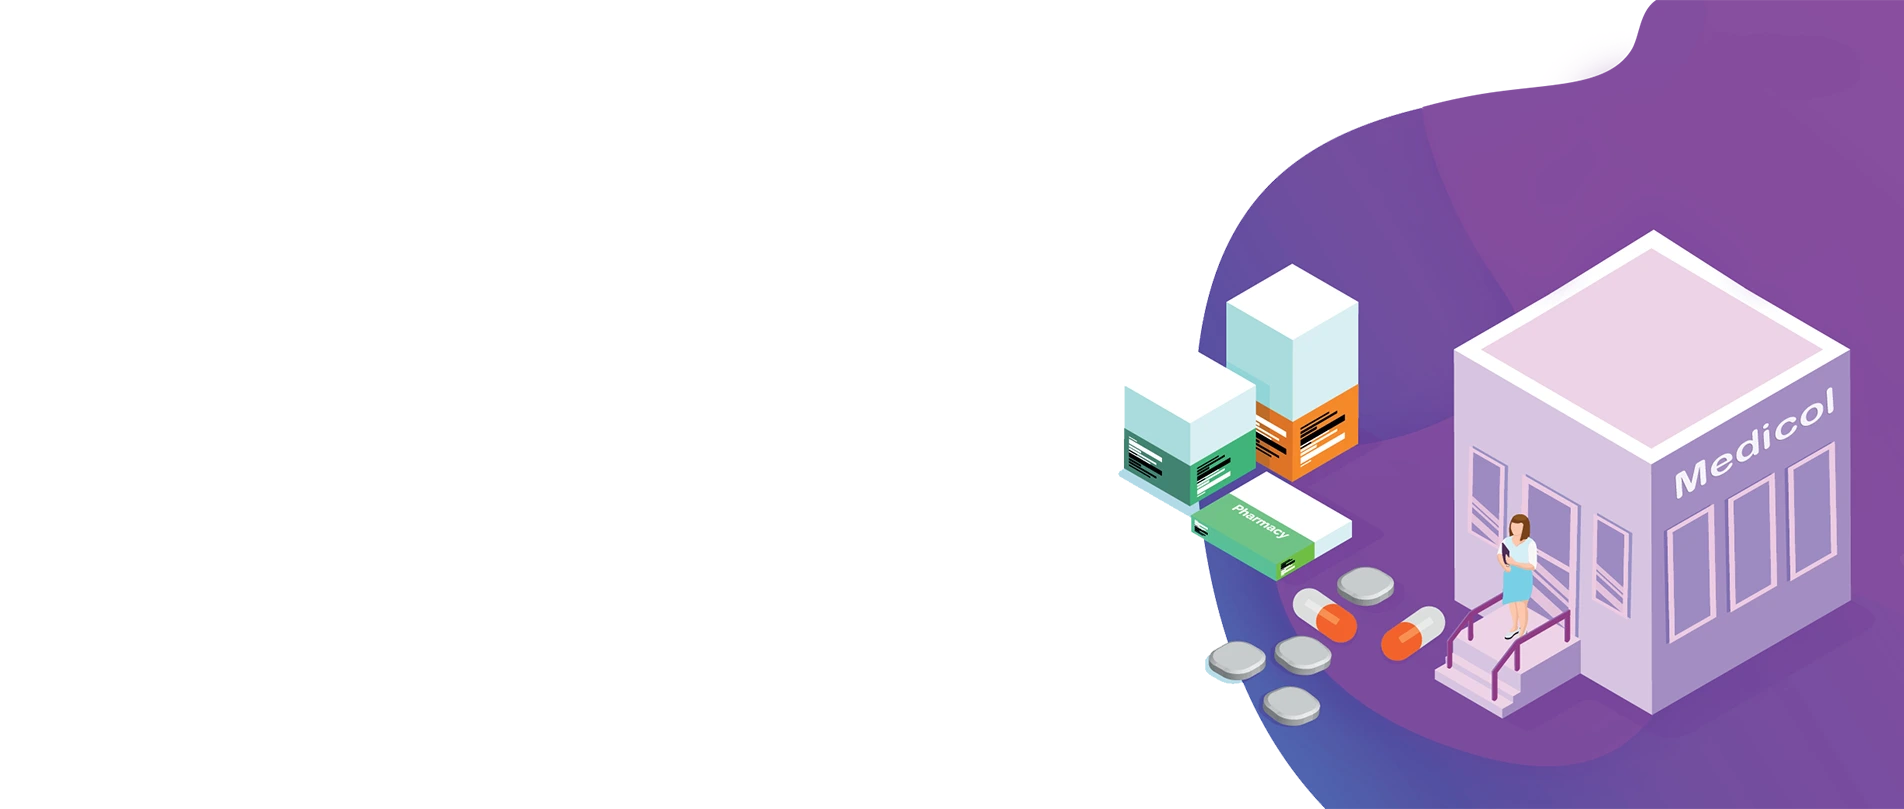
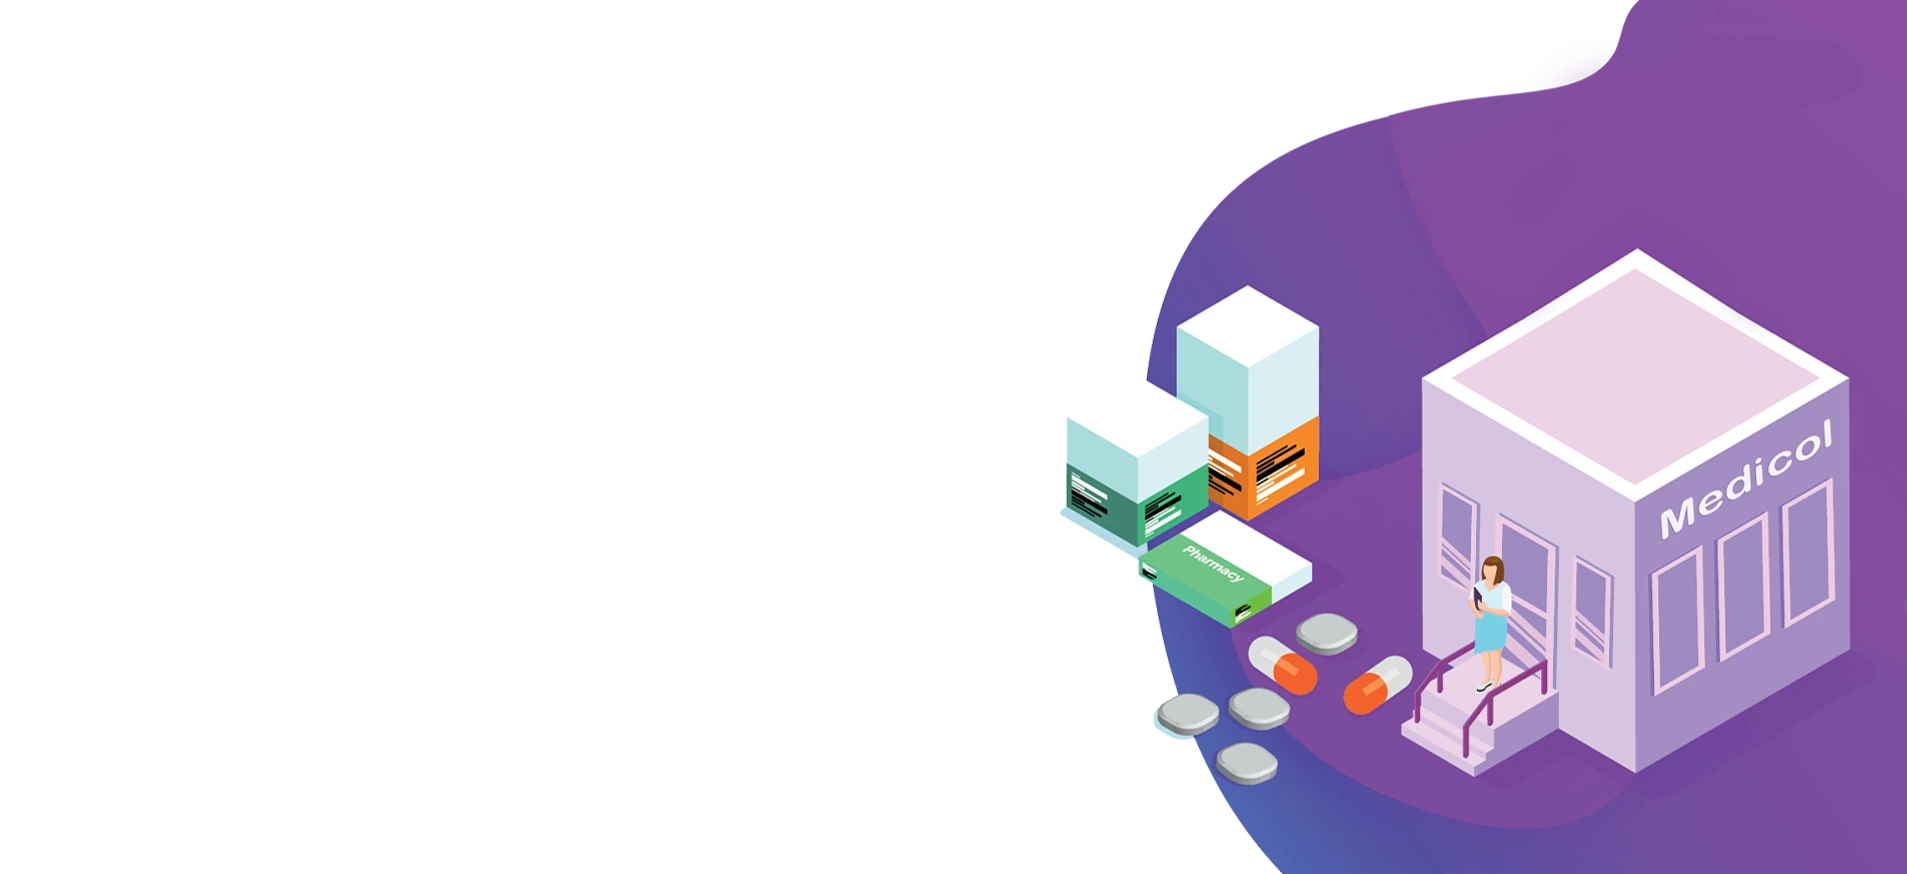
last

diff --git a/src/app/componenets/navbar/navbar.component.html b/src/app/componenets/navbar/navbar.component.html
@@ -1,11 +1,11 @@
 
-<nav class="w-full z-50 fixed top-0 left-0 ">
+<nav #blurNav class="w-full z-50 fixed top-0 left-0  ">
     <div class="flex flex-wrap justify-between items-center mx-auto max-w-screen-xl p-4">
         <a href="http://localhost:4200/" class="flex items-center gap-2">
             <div class="12 flex justify-center items-center gap-1">
                 <div>
-                  <img src="assets/images/logo.webp" alt="Medicol logo"
-                    class="w-8 h-8" />
+                  <img src="assets/images/logo.webp"  alt="Medicol logo"
+                    class="w-8 h-8 dark:brightness-125" />
                 </div>
                 <div>
                   <span class="text-xl dark:text-gray-300 dark:hover:text-gray-200"><span class="font-extrabold">Medi</span>col</span>
@@ -24,14 +24,14 @@
                   
                     <a [routerLink]="['/home']" class=" flex gap-1" aria-current="page">
                         <img [ngClass]="correctRoute==='/home'?'block':'hidden'" src="assets/images/home.webp" class="w-5 h-5 drop-shadow  animate-fade-left animate-duration-500 animate-ease-in-out" alt="medicol home icon" >
-                        <span>Home</span>
+                        <span class="text-gray-700 dark:text-gray-300">Home</span>
                     </a>
                     <div class="w-full h-[3px] -mt-[1px] flex items-center justify-center"><div class="w-full hidden h-full bg-gradient-to-r from-purple-600 to-purple-950 rounded-[5px]"></div></div>
                 </li>
                 <li>
-            <button appToggling [options]="options" [optionsIcon]="icon" [optionsIconDown]="iconDown" [optionsIconUp]="iconUp" class="flex hover:text-purple-800 items-center justify-between w-full py-2 pl-3 pr-4 md:w-auto md:p-0">
+            <button appToggling [border]="borderDiv" [blurDiv]="blurNav" [options]="options" [optionsIcon]="icon" [optionsIconDown]="iconDown" [optionsIconUp]="iconUp" class="flex dark:text-purple-600 text-purple-800 items-center justify-between w-full py-2 pl-3 pr-4 md:w-auto md:p-0">
                 <img #icon src="assets/images/options.webp" class="w-5 h-5 drop-shadow hidden mr-1 animate-fade-left animate-duration-500 animate-ease-in-out" alt="medicol options icon" >   
-                      <span class="text-gray-700">Options</span>  
+                      <span class="text-gray-700 dark:text-gray-300">Options</span>  
                       <span #iconDown class="animate-flip-down animate-duration-500 animate-ease-in-out">
                         <svg  class="w-2.5 h-2.5 ml-2.5 " aria-hidden="true" xmlns="http://www.w3.org/2000/svg" fill="none" viewBox="0 0 10 6">
                             <path stroke="currentColor" stroke-linecap="round" stroke-linejoin="round" stroke-width="2" d="m1 1 4 4 4-4"/>
@@ -42,18 +42,16 @@
                              <path stroke="currentColor" stroke-linecap="round" stroke-linejoin="round" stroke-width="2" d="m1 1 4 4 4-4"/>
                              </svg>
                       </span>
-  
-         
             </button>
                 </li>
                 <li>
-                    <a  class=" ">Marketplace</a>
+                    <a  class="text-gray-700 dark:text-gray-300">Marketplace</a>
                 </li>
                 <li>
-                    <a  class=" ">Resources</a>
+                    <a  class="text-gray-700 dark:text-gray-300">Resources</a>
                 </li>
                 <li>
-                    <a  class=" ">Contact</a>
+                    <a  class="text-gray-700 dark:text-gray-300">Contact</a>
                 </li>
                 <li>
                     <app-dark-mode-toggle/>
@@ -61,9 +59,9 @@
             </ul>
         </div>
     </div>
-    <div [ngClass]="correctRoute==='/home'? !home.list? 'border-y dark:border-gray-950  ml-2 w-[84.2%]':'border-y dark:border-gray-950  ml-2 w-[99.2%]':''" ></div>
-    <div class="mx-2 border-gray-200  bg-gray-900  ">
-        <div #options class=" hidden border-gray-200 shadow-sm bg-gray-50 md:bg-white border-y dark:bg-gray-800 dark:border-gray-600">
+    <div #borderDiv  class="block" [ngClass]="correctRoute==='/home'? !home.list? 'border-y dark:border-gray-950  ml-2 w-[83.4%]':'border-y dark:border-gray-950  ml-2 w-[99.2%]':''" ></div>
+    <div [ngClass]="correctRoute==='/home'?'mx-2 border-gray-200':''" class="  ">
+        <div #options class="hidden  border-gray-200 shadow-sm ">
             <div class="grid max-w-screen-xl px-4 py-5 mx-auto text-gray-900 dark:text-white sm:grid-cols-2 md:px-6">
                 <ul>
                     <li>

diff --git a/src/app/directives/toggling.directive.ts b/src/app/directives/toggling.directive.ts
@@ -9,6 +9,8 @@ export class TogglingDirective {
   @Input() optionsIcon: ElementRef | HTMLElement | undefined;
   @Input() optionsIconUp: ElementRef | HTMLElement | undefined;
   @Input() optionsIconDown: ElementRef | HTMLElement | undefined;
+  @Input() blurDiv: ElementRef | HTMLElement | undefined;
+  @Input() border: ElementRef | HTMLElement | undefined;
 
 
   constructor(private renderer: Renderer2) {}
@@ -18,28 +20,39 @@ export class TogglingDirective {
   }
 
   private toggleClass() {
-    this.toggleHandling(this.options);
-    this.toggleHandling(this.optionsIcon);
-    this.toggleHandling(this.optionsIconUp);
-    this.toggleHandling(this.optionsIconDown);
+    this.toggleHandling(this.options,'visibility');
+    this.toggleHandling(this.optionsIcon,'visibility');
+    this.toggleHandling(this.optionsIconUp,'visibility');
+    this.toggleHandling(this.optionsIconDown,'visibility');
+    this.toggleHandling(this.border,'visibility');
+    this.toggleHandling(this.blurDiv,'blur');
   }
 
-  private toggleHandling(elementRef:ElementRef | HTMLElement | undefined) {
+  private toggleHandling(elementRef:ElementRef | HTMLElement | undefined,answer:string) {
     if (elementRef) {
       const targetElement = (elementRef instanceof ElementRef)
       ? elementRef.nativeElement
       : elementRef;
-      if (targetElement && targetElement.classList) {
-        if (targetElement.classList.contains('hidden')) {
-          this.renderer.removeClass(targetElement, 'hidden' as string);
-          this.renderer.addClass(targetElement, 'block' as string);
+      if(answer==='visibility'){
+        if (targetElement && targetElement.classList) {
+          if (targetElement.classList.contains('hidden')) {
+            this.renderer.removeClass(targetElement, 'hidden' as string);
+            this.renderer.addClass(targetElement, 'block' as string);
+          } else{
+            this.renderer.removeClass(targetElement, 'block' as string);
+            this.renderer.addClass(targetElement, 'hidden' as string);
+          }
+      }
+      }else{
+        if (targetElement.classList.contains('backdrop-blur-md')) {
+          this.renderer.removeClass(targetElement, 'backdrop-blur-md' as string);
         } else {
-          this.renderer.removeClass(targetElement, 'block' as string);
-          this.renderer.addClass(targetElement, 'hidden' as string);
+          this.renderer.addClass(targetElement, 'backdrop-blur-md' as string);
         }
       }
     }
   }
+  
 
 }
 

diff --git a/src/app/componenets/home/home.component.html b/src/app/componenets/home/home.component.html
@@ -1,4 +1,4 @@
-<section [ngClass]="!home.list?'homeBG ' :''" class="h-[93vh]  bg-white dark:shadow-black shadow pt-20   rounded-lg  dark:bg-gray-900 ">
+<section [ngClass]="!home.list?'homeBG ' :''" class="h-[95vh]  bg-white dark:shadow-black shadow pt-20   rounded-b-lg  dark:bg-gray-900 ">
 <div class="w-full flex justify-center pt-3 transition-all">
     <button (click)="home.switch()" [ngClass]="!home.list?'dark:bg-gray-800 shadow-inner bg-gray-100 ':'brightness-0 dark:brightness-0 dark:invert opacity-75'"  class="px-3 rounded-xl py-[1px] "><img class="w-7 h-7" src="assets/images/details.webp" alt="medicol icons"></button>
     <button (click)="home.switch()" [ngClass]="home.list?'dark:bg-gray-800 shadow-inner bg-gray-100 ':'brightness-0 dark:brightness-0 dark:invert opacity-75'" class="px-3 rounded-xl py-[1px] "><img class="w-6 h-6" src="assets/images/list.webp" alt="medicol icons"></button>

diff --git a/src/app/componenets/home-details/home-details.component.html b/src/app/componenets/home-details/home-details.component.html
@@ -27,7 +27,7 @@
     
        </div>
        <div class="h-full ">
-        <div class="flex justify-center items-center h-full -mt-[6%] ml-[30%]  ">
+        <div class="flex justify-center items-center h-full -mt-[4.5%] ml-[25%]  ">
             <div class="animate-rotate-y brightness-125 animate-duration-[3000ms] animate-ease-in-out">
                 <img class="w-52 h-52 -mt-60 drop-shadow retated " src="assets/images/logo.webp" alt="Medicol logo">
             </div>

diff --git a/src/app/services/home/home.service.ts b/src/app/services/home/home.service.ts
@@ -6,7 +6,7 @@ import { Injectable } from '@angular/core';
 export class HomeService {
 
   constructor() { }
-  list:boolean=true;
+  list:boolean=!true;
 
   switch(){
     this.list=!this.list
